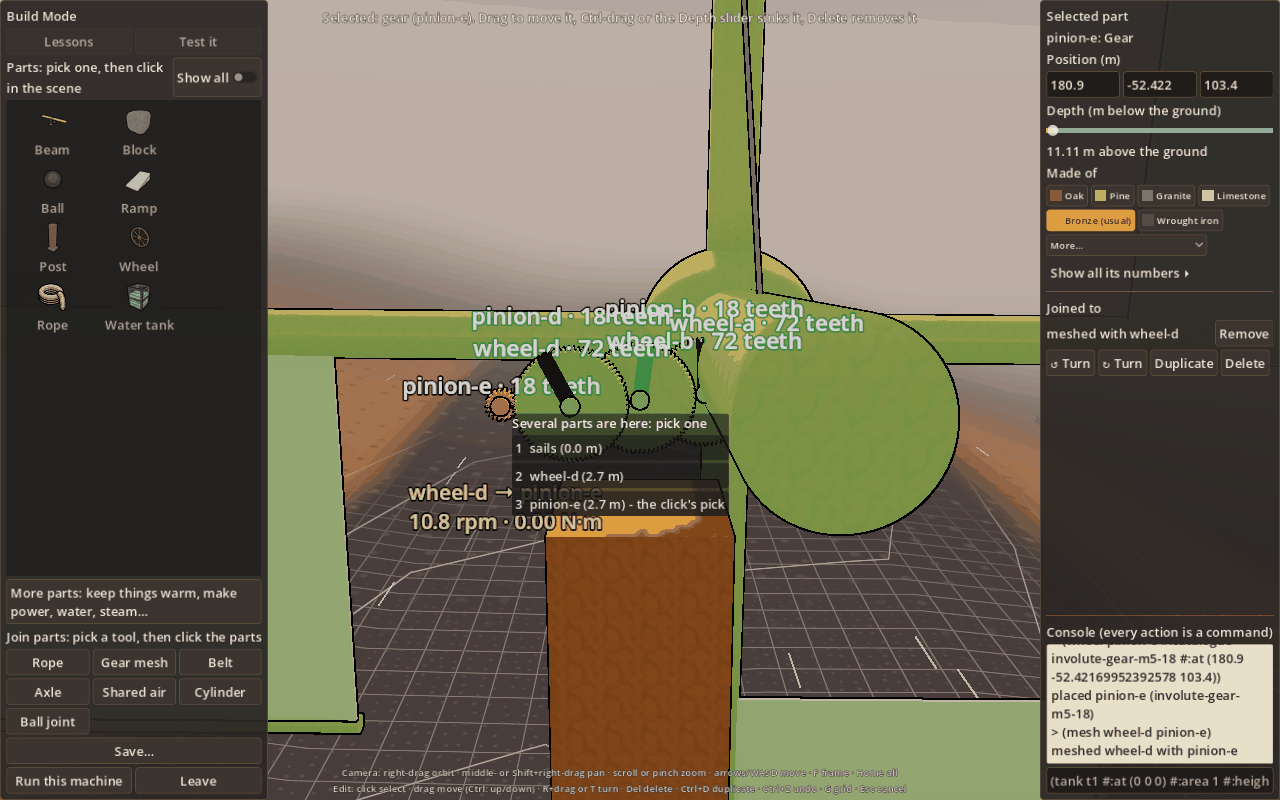
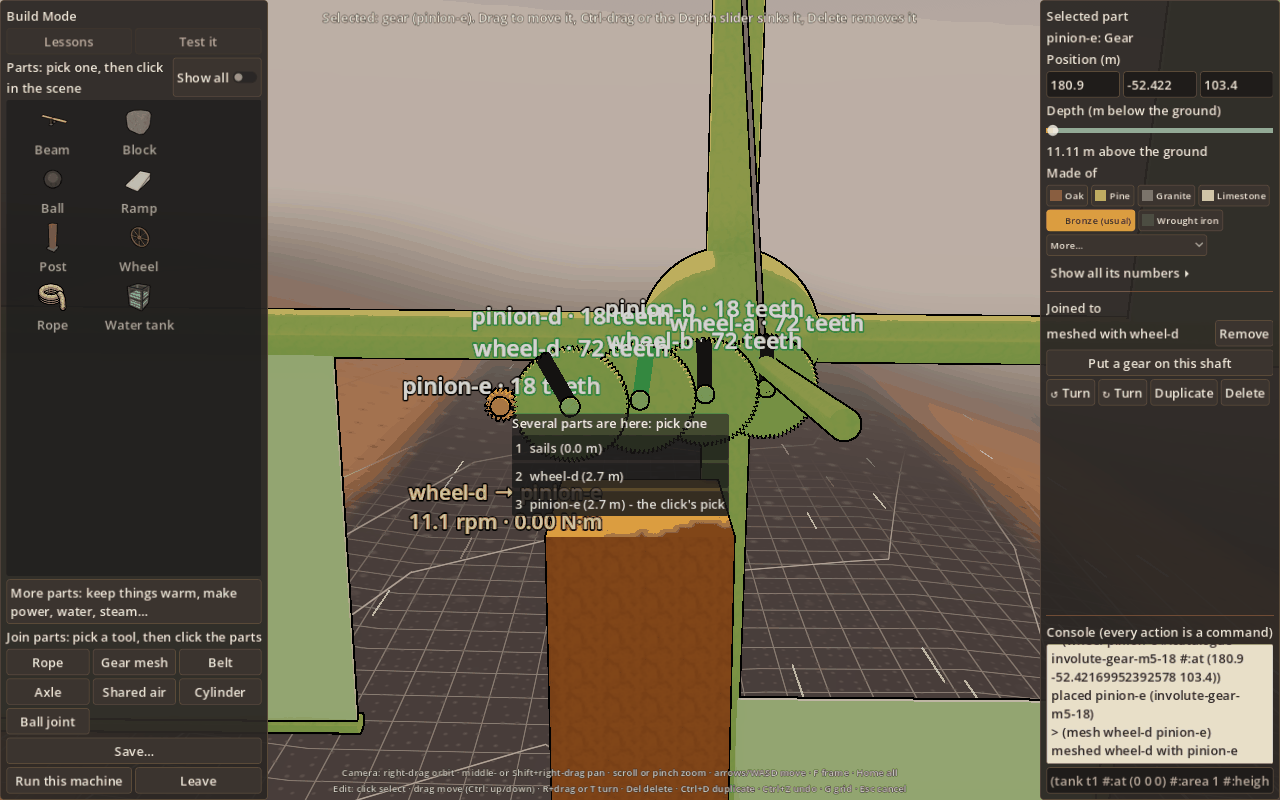
Building phase 2: the windmill's windshaft drawn 0.035 m round (MachineView.WindshaftRadius, under the m5 18-tooth pinion's root circle, over the 72's bore), not 0.25 m, so the gears on it show (legibility over realism; drawing only: a HEROIC_TRACE of the route's mill to 285 s is byte-identical befo

diff --git a/game/scripts/MachineView.Windmills.cs b/game/scripts/MachineView.Windmills.cs
@@ -21,6 +21,15 @@ public partial class MachineView
     /// post's top when its ghost is put on one (building plan, phase 1): the nave rests on the post.</summary>
     public const float WindmillHubRadius = 0.45f;
 
+    /// <summary>
+    /// The radius the windshaft is drawn at: 0.035 m, under the root circle of the smallest involute gear a windmill is geared with (the
+    /// module-5 18-tooth pinion, root radius 0.03875 m; catalogue.rktd), so every module-5, 10 and 20 gear put on the shaft shows its
+    /// teeth and web round it, and over the 72's bore (0.026 m) so the shaft still reads as passing through the gear. It was 0.25 m, the
+    /// thickness of a real mill's oak windshaft, which hid the route's 0.185 m wheels inside it (building plan, phase 2: legibility over
+    /// realism). Drawing only: the sails are turned by the sim (Windmill), nothing collides with this rod.
+    /// </summary>
+    public const float WindshaftRadius = 0.035f;
+
     private readonly List<(Windmill mill, Node3D sails)> _windmills = [];
     private readonly List<(Windmill mill, Node3D yaw, Node3D arrow)> _windmillYaw = [];
 
@@ -36,8 +45,8 @@ public partial class MachineView
         var yaw = new Node3D { Position = hub };
         AddChild(yaw);
 
-        // the windshaft, running back into the buck behind the sails
-        yaw.AddChild(Shapes.Rod(Vector3.Zero, new Vector3(0, 0.15f, -2.5f), 0.25f, wood));
+        // the windshaft, running back into the buck behind the sails: drawn thinner than any gear put on it can hide (WindshaftRadius)
+        yaw.AddChild(Shapes.Rod(Vector3.Zero, new Vector3(0, 0.15f, -2.5f), WindshaftRadius, wood));
         if (mill.Vane)
         {
             // a tail vane: a boom out behind the buck and a fin at its end, which the wind pushes round to lie downwind
